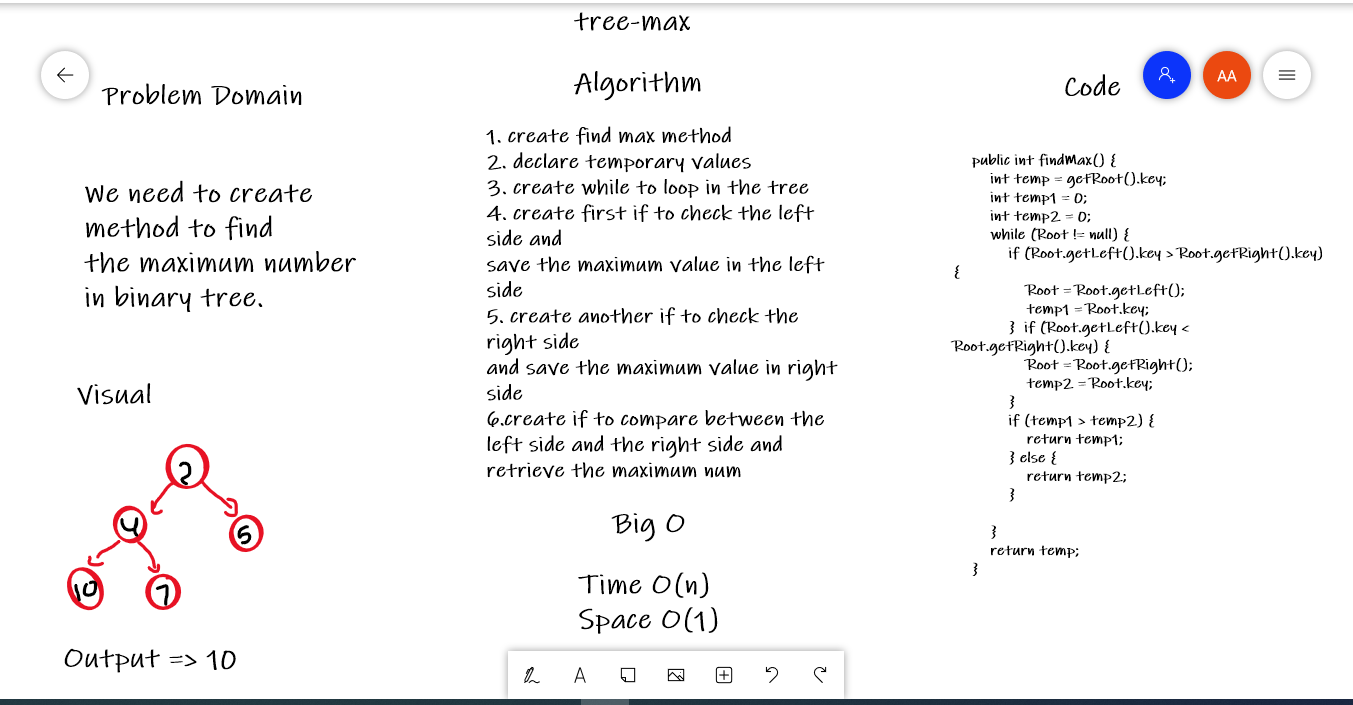
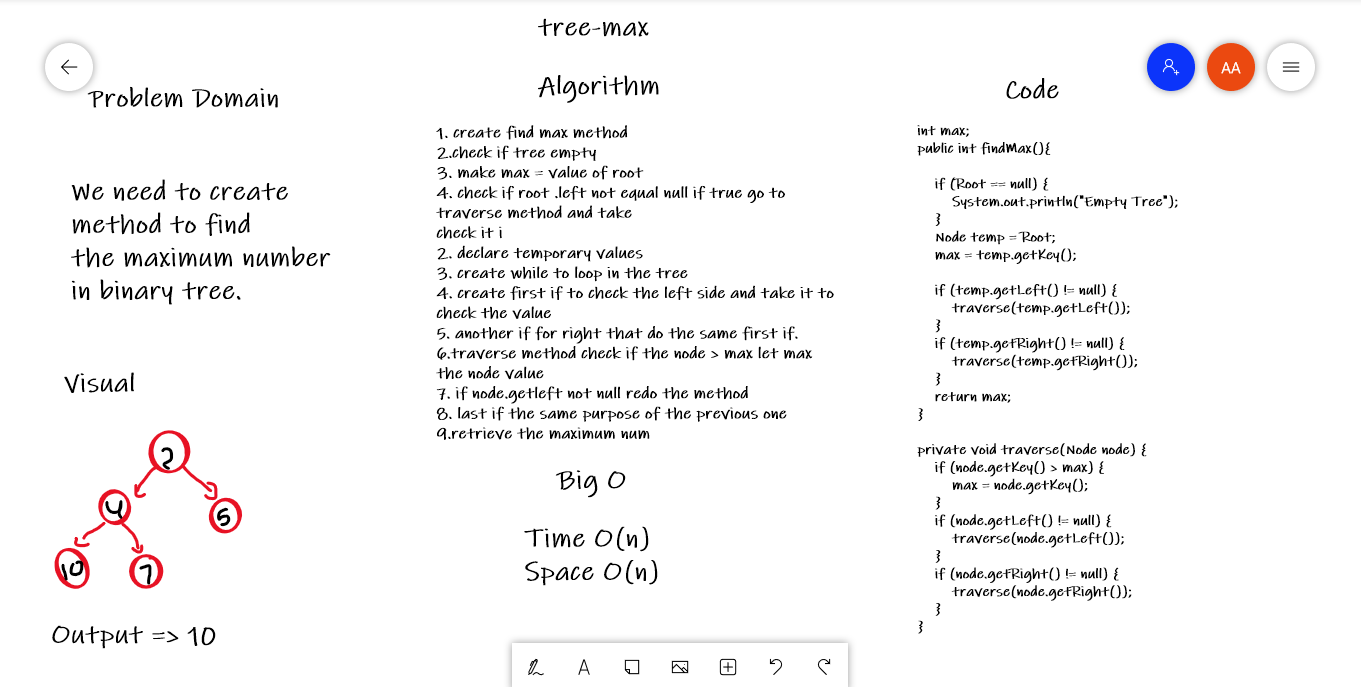
fixed

diff --git a/trees/lib/src/main/java/trees/BinaryTree.java b/trees/lib/src/main/java/trees/BinaryTree.java
@@ -1,9 +1,12 @@
 package main.java.trees;
 
 import java.util.ArrayList;
+import java.util.LinkedList;
+import java.util.Queue;
 
 public class BinaryTree {
     Node Root;
+
     public ArrayList<Integer> preOrderArr = new ArrayList<>();
     public ArrayList<Integer> inOrderArr = new ArrayList<>();
     public ArrayList<Integer> postOrderArr = new ArrayList<>();
@@ -35,26 +38,36 @@ public class BinaryTree {
             preOrder(node.getRight());
         }
     }
-    public int findMax() {
-        int temp = getRoot().key;
-        int temp1 = 0;
-        int temp2 = 0;
-        while (Root != null) {
-            if (Root.getLeft().key > Root.getRight().key) {
-                Root = Root.getLeft();
-                temp1 = Root.key;
-            }  if (Root.getLeft().key < Root.getRight().key) {
-                Root = Root.getRight();
-                temp2 = Root.key;
-            }
-            if (temp1 > temp2) {
-                return temp1;
-            } else {
-                return temp2;
-            }
+    int max;
+    public int findMax(){
+
+        if (Root == null) {
+            System.out.println("Empty Tree");
         }
-        return temp;
+        Node temp = Root;
+        max = temp.getKey();
+
+        if (temp.getLeft() != null) {
+            traverse(temp.getLeft());
+        }
+        if (temp.getRight() != null) {
+            traverse(temp.getRight());
+        }
+        return max;
     }
+
+    private void traverse(Node node) {
+        if (node.getKey() > max) {
+            max = node.getKey();
+        }
+        if (node.getLeft() != null) {
+            traverse(node.getLeft());
+        }
+        if (node.getRight() != null) {
+            traverse(node.getRight());
+        }
+    }
+
 
     public Node getRoot() {
         return Root;

diff --git a/trees/lib/src/main/java/trees/App.java b/trees/lib/src/main/java/trees/App.java
@@ -7,12 +7,17 @@ public class App {
         System.out.println("Binary search");
         BinaryTree binaryTree = new BinaryTree();
         binaryTree.setRoot(new Node(1));
-        binaryTree.getRoot().setLeft(new Node(180));
-        binaryTree.getRoot().setRight(new Node(120));
+        binaryTree.getRoot().setLeft(new Node(40));
+        binaryTree.getRoot().setRight(new Node(10));
         binaryTree.getRoot().getLeft().setLeft(new Node(4));
-        binaryTree.getRoot().getLeft().setRight(new Node(100));
+        binaryTree.getRoot().getLeft().setRight(new Node(50));
+        binaryTree.getRoot().getRight().setLeft(new Node(60));
+        binaryTree.getRoot().getRight().setRight(new Node(70));
+
 
         System.out.println(binaryTree.findMax());
+        //System.out.println(binaryTree.traverseLevelOrder(binaryTree));
+       // System.out.println(binaryTree.findMax());
 //          //inOrder
 //          binaryTree.inOrder(binaryTree.getRoot());
 //          //postOrder
@@ -20,14 +25,14 @@ public class App {
 //          //preOrder
 //         binaryTree.preOrder(binaryTree.getRoot());
 //        System.out.println("lll");
-//        System.out.println(binaryTree.preOrderArr);
+ //       System.out.println(binaryTree);
 //        BinarySearchTree bst = new BinarySearchTree();
 //        bst.add(5);
 //        bst.add(7);
 //        bst.add(3);
 //        bst.add(18);
 //        System.out.println(bst.Search(9));
-      //  System.out.println(bst);
+//        System.out.println(bst);
 
     }
 }

diff --git a/trees/README.md b/trees/README.md
@@ -11,7 +11,7 @@ Tree Max:
 
 ## Approach & Efficiency
 Binary tree and binary search tree: O(n) Where n is the number of nodes on one side of root.<br>
-Find Max : Time O(n) because will walk through each node / Space : O(1) because not you recursion.
+Find Max : Time O(n) because will walk through each node / Space : O(n) because use recursion.
 
 ## API
 inOrder(): Traverse the left subtree, root, Traverse the right subtree.<br>
